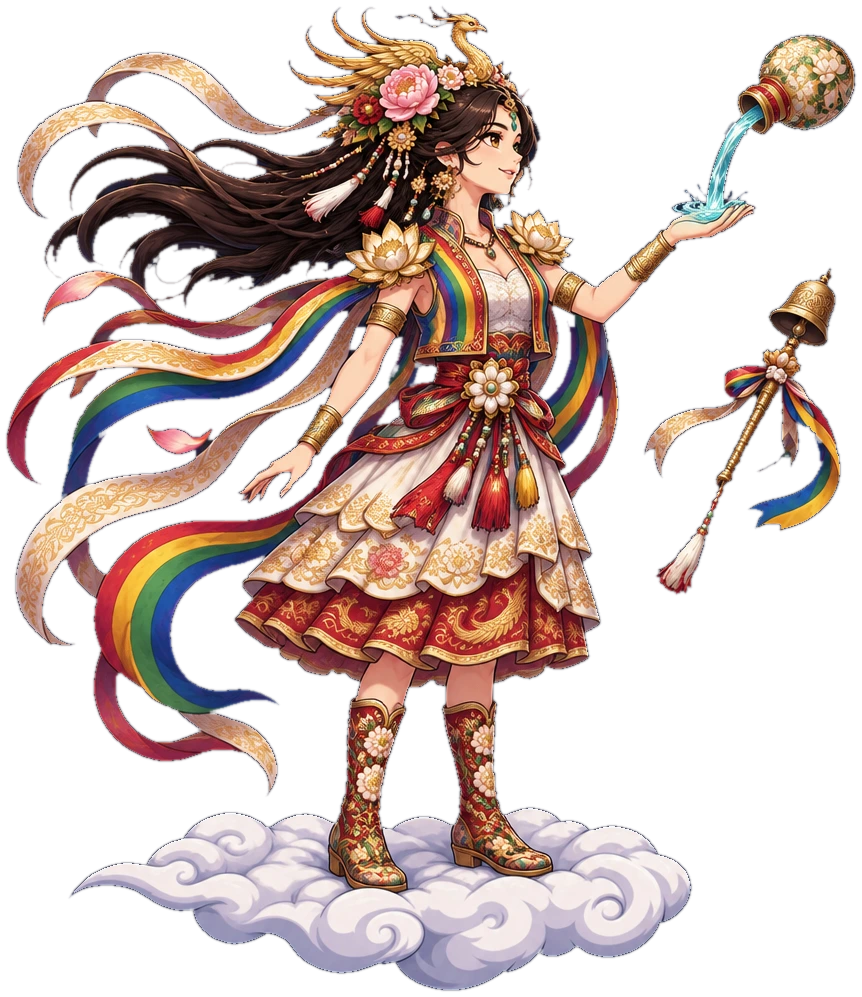
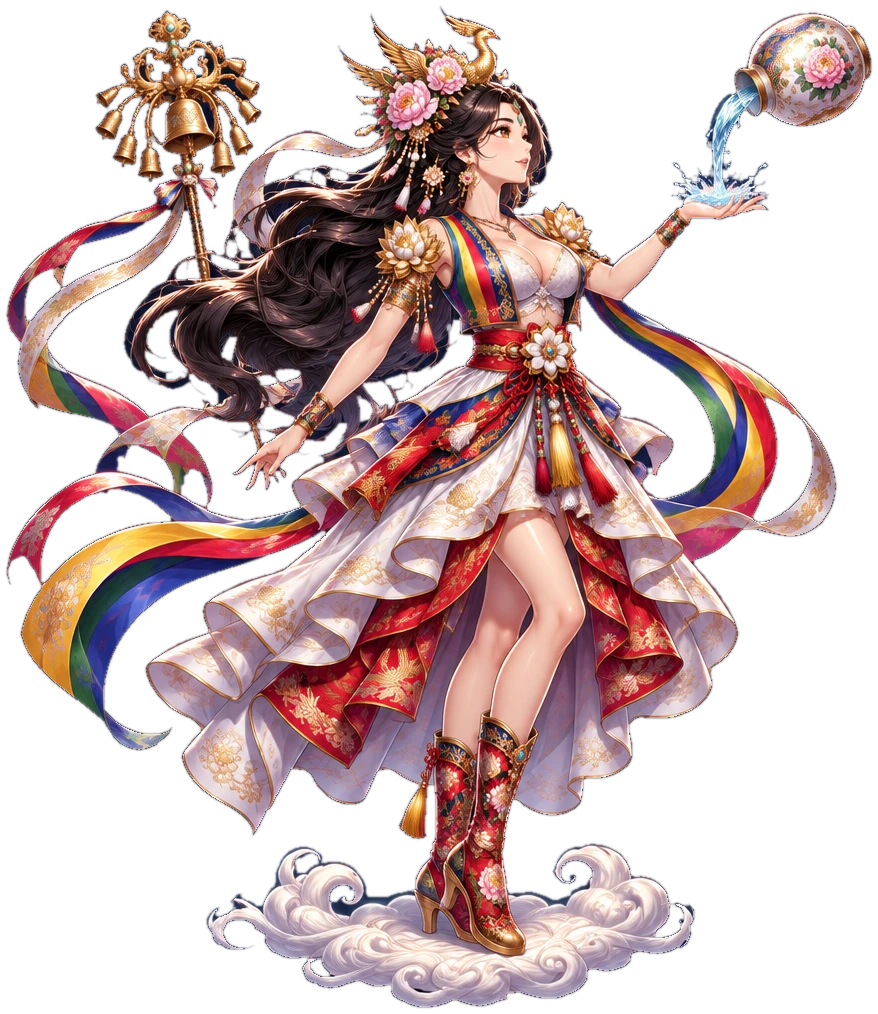
바리공주 각성 게임 그림 aw14p: 새 그림체 기준 판으로 교체
Claude-Session: https://claude.ai/code/session_01X3WCR5nTXLkTaQuYbPMPiQ

diff --git a/game-design/art/바리공주각성/README.md b/game-design/art/바리공주각성/README.md
@@ -16,3 +16,4 @@
 ## 각성 게임 그림 확정 (11/21)
 - `aw14p_hi.webp` / 게임 `게임용/aw14p.webp`(242×280): 원본 게임 그림 `c14_bari_s` 한 장만 참고로 고쳐 그림(게임 그림체). 서서 오른쪽을 봄, 떠 있는 병의 물이 펼친 손바닥에 떨어짐, 방울 지팡이 떠 있음, 손에 쥔 것 없음.
 - 이 그림체가 모든 그림의 기준(그림 규칙 00절). 이전 판(일러스트 B6을 참고로 그린 무릎·서 있는 판)은 그림체가 섞여 폐기.
+- (11/21 교체) 새 그림체 기준(T3_front·S4)으로 다시 그림: 참고 = T3_front + S4 + 원본 일러스트 c14(얼굴·체형만), job 1ef8369d-f77e-4421-b655-f7747730ad9f. 서서 오른쪽, 손바닥 위 병 물줄기, 지팡이 떠 있음. 사용자 「우선 저장」. 남은 차이: 기준보다 명암이 옅고 눈매가 둥긂, 약 8.5~9등신(원본 참고가 칠을 섞음 → 다음부터 기준 두 장 + 글로 캐릭터 설명 검토).

diff --git a/game-design/00_결정사항.md b/game-design/00_결정사항.md
@@ -160,3 +160,4 @@
 | 2026-11-21 | 바리공주 각성 게임 그림 aw14p 최종본(242×280, 서서 오른쪽, 병의 물이 손바닥으로, 원본 c14 한 장 고쳐 그림). 이전 두 판 폐기 |
 | 2026-11-21 | 그림체 기준 변경: 달래 쌍검 전신 T3 + 설녀 각성 S4 두 장을 모든 그림(게임 그림 포함)의 기준으로. 스케치 기법·화풍은 기준과 같게, 색상·색감은 배경·디자인에 맞춰 변경 가능. 자세는 캐릭터마다 다르게, 웹 검색으로 찾아 글로만 옮김. 기존 각성 게임 그림 6장 유지 |
 | 2026-11-21 | 그림체 기준 1번을 T3_front(T3 얼굴을 F2 정면 각도로 고친 판)로. 얼굴 색 톤이 몸과 안 맞는 점은 새 그림에서 피부 톤을 같게 맞춰 조정 |
+| 2026-11-21 | 바리공주 aw14p 새 기준 그림체 판으로 교체(우선 저장, 명암·비율 차이는 남음). 다음 해태 |
